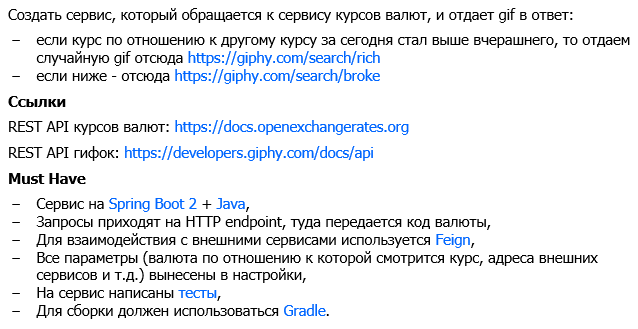
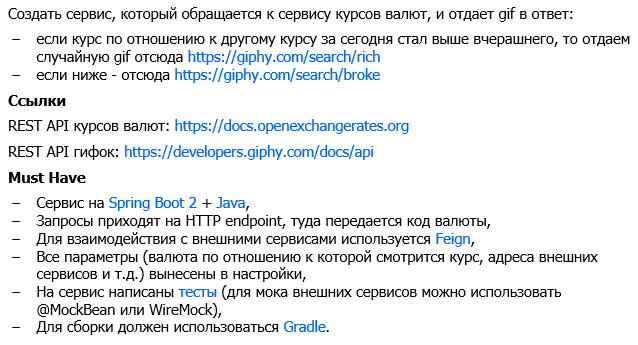
Changed description

diff --git a/README.md b/README.md
@@ -1,5 +1,3 @@
-# Описание
-
 ## Задание
 ![alt text](task.png)
 
@@ -35,4 +33,4 @@
 
 * Код валюты, курс которой нужно оценить, передается в URL. Например, если нужно определить, вырос или упал курс австралийского доллара по отношению к рублю, запрос будет следующий: `localhost:8080/AUD`;
 
-* Сервисные классы снабжены тестами.
+* Сервисные классы снабжены тестами (использована библиотека  **WireMock**).
